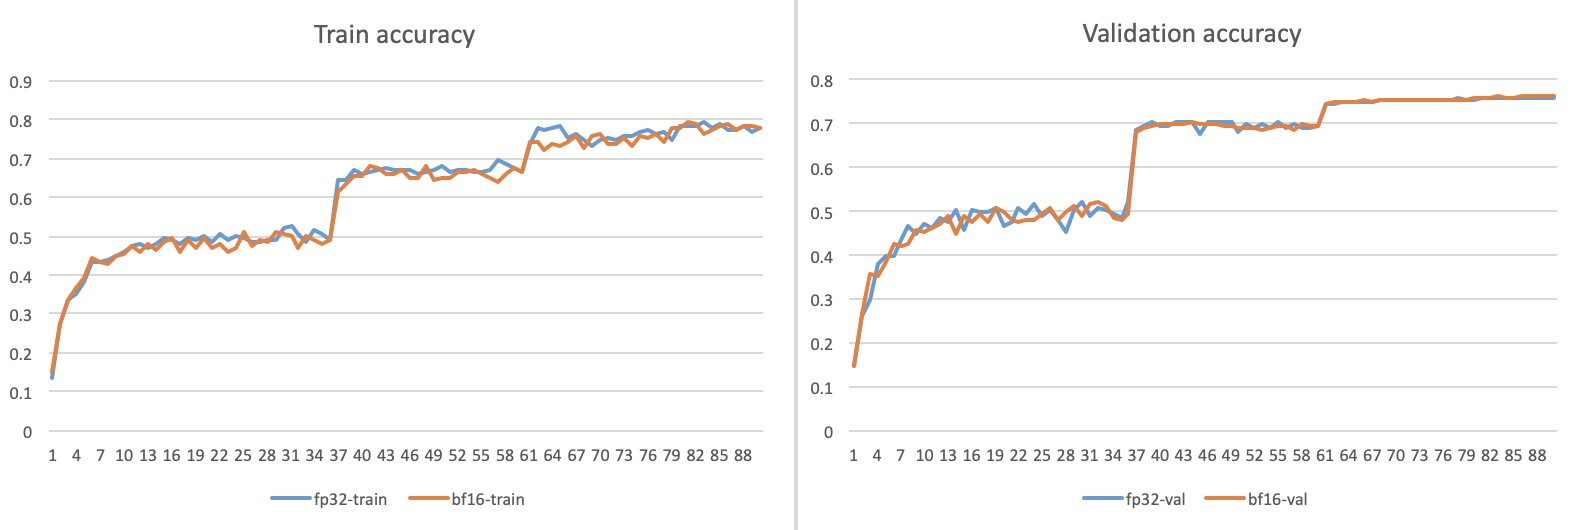
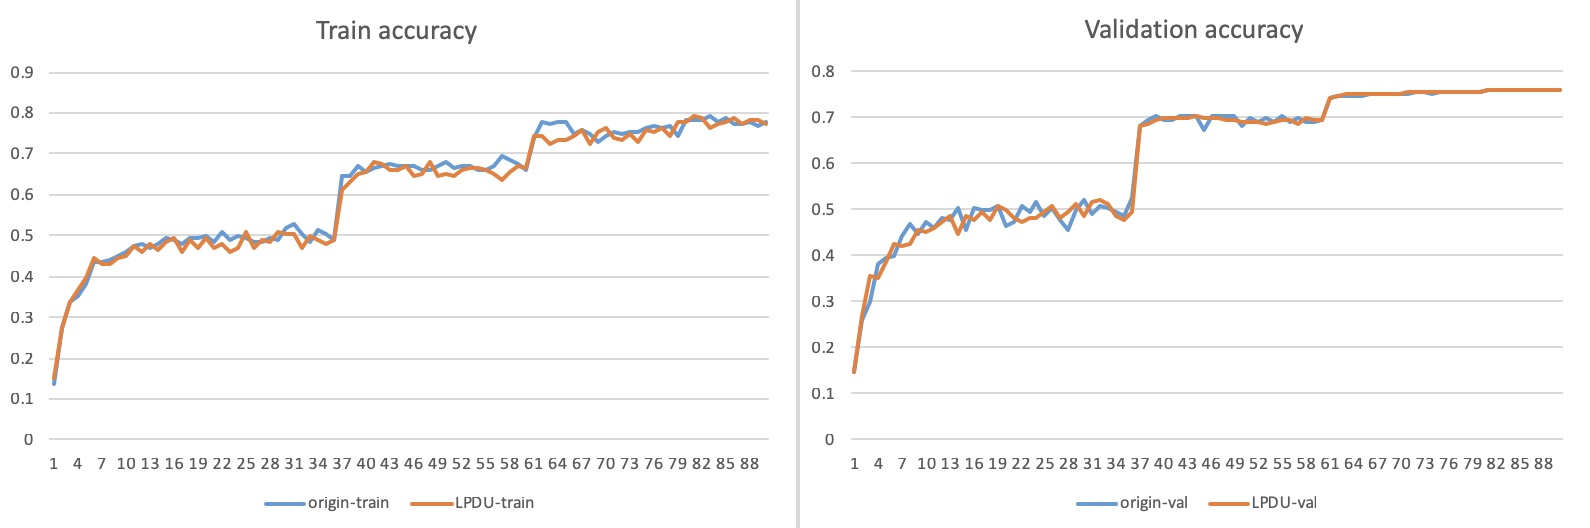
submit for paper review

diff --git a/data/innovation2.tex b/data/innovation2.tex
@@ -1,4 +1,4 @@
-\chapter{低精度梯度压缩方法}
+\chapter{极限精度梯度压缩方法}
 考虑到梯度数据普遍较小，绝大部分数据绝对值在0～1之间这样特点，如表~\ref{tab:resnet50_1iter_grad_fabs}所示。在resnet50网络中，每次迭代需要更新155个tensor的梯度，表中展示了在第一次迭代中各个tensor最大绝对值所处的范围。可知仅考虑每个tensor中最大绝对值情况下，53.55\%的tensor中最大绝对值在0～1之间；41.29\%的tensor中最大绝对值在1～10之间；仅有5.16\%的tensor中最大绝对值在10～50之间。
 \begin{table}[htb]
 \centering
@@ -35,13 +35,13 @@
 \end{minipage}
 \end{table}
 
-本章希望在不影响神经网络训练精度的情况下，尽可能减少梯度数据所需的比特位数，为进一步减少分布式通信开销，提高分布式系统可扩展性和训练效率提供数据压缩方法。本章将主要介绍梯度压缩的思路与实现方法，以及对应压缩方式在图像分类和物体检测网络中的训练精度。通过其与原始的训练精度对比，说明对应压缩算法的有效性和适用范围。
+本章希望在不影响神经网络训练精度的情况下，尽可能减少梯度数据所需的比特位数，为进一步减少分布式通信开销，提高分布式系统可扩展性和训练效率提供数据压缩方法。本章将主要介绍梯度压缩的思路与实现方法，以及对应压缩方式在图像分类和物体检测网络中的训练精度。通过其与原始的训练精度对比，说明对应压缩算法的有效性和适用范围。本章共提出两种极限精度梯度压缩EPGC方法：9比特梯度压缩方法和8比特梯度压缩方法，这两种算法均能保证分类网络训练精度达到原始浮点数训练相同精度。后面将详细分析相关实验结果。
 \section{引言}
 根据第二章内容可知，分布式训练过程中同步开销的大小对系统的可扩展性和训练效率有至关重要的影响。在不影响训练精度的情况下，将梯度尽可能地压缩则可减少同步开销，提高分布式系统的可扩展性和训练效率。本章将介绍探索梯度压缩方法的思路与具体实现方法，以及各个压缩方式下分类网和物体检测网络的最终收敛精度。
 
-由第三章BF16分布式更新算法实现可知，基于horovod要实现新的数据压缩方法，则需在MPI中新增一个数据类型来解析该压缩数据，并实现一个该数据类型的求和函数供MPI调用。为快速验证本文提出的梯度压缩方法对神经网络训练精度的影响，本章提出的梯度压缩方法均通过对FP32浮点数或半精度浮点数对应比特位清零的方式来模拟对应的压缩方法。该模拟方法可避免对MPI的改动，使得本节提出的压缩方法能够快速得到验证。下面将对本节探索出的两种压缩方式进行详细介绍。
-\section{9比特梯度压缩方法}
-根据上一章BF16更新算法可知，BF16数据格式相对于原始FP32数据而言，去除了浮点数尾数中的后16比特位，仅保留7位有效比特位。本压缩算法根据这一思路，在BF16数据基础上，进一步减少尾数有效位，在保证训练精度情况下，尽可能减少尾数比特位，以减少分布式同步中的通信量。
+由第三章LPDU算法实现可知，基于horovod要实现新的数据压缩方法，则需在MPI中新增一个数据类型来解析该压缩数据，并实现一个该数据类型的求和函数供MPI调用。为快速验证本文提出的梯度压缩方法对神经网络训练精度的影响，本章提出的梯度压缩方法均通过对FP32浮点数或半精度浮点数对应比特位清零的方式来模拟对应的压缩方法。该模拟方法可避免对MPI的改动，使得本节提出的压缩方法能够快速得到验证。下面将对本节探索出的两种EPGC方法：9比特梯度压缩方法和8比特梯度压缩方法进行详细介绍。
+\section{9比特梯度压缩算法}
+根据上一章LPDU算法可知，BF16数据格式相对于原始FP32数据而言，去除了浮点数尾数中的后16比特位，仅保留7位有效比特位。本压缩算法根据这一思路，在BF16数据基础上，进一步减少尾数有效位，在保证训练精度情况下，尽可能减少尾数比特位，以减少分布式同步中的通信量。
 
 \subsection{9比特压缩方法实现}
 \begin{figure}[htp]
@@ -52,7 +52,7 @@
 \end{figure}
 本节通过对原始FP32浮点数尾数位置零的方法模拟这种压缩方法。如在FP32浮点数基础上仅保留两位有效尾数位，形成11比特的数据格式，可通过将FP32浮点数的低21位清零达到相同效果，如图~\ref{fig:simulate_11bits}所示。可知低21比特位清零后的浮点数等效于11比特位数据格式所表示数据。
 
-使用这种模拟方法，本文逐渐减少尾数比特位，并在对应比特位中使用图像分类和物体检测领域经典的网络，来验证该压缩方法的有效性和适用范围。最终发现在去除所有尾数情况下，近使用9比特梯度压缩算法即可保证分类网的训练精度，故本节提出了适用于图像分类网络的9比特梯度压缩方法；但该梯度压缩方法在物体检测网络中则对网络训练精度有较大影响。
+使用这种模拟方法，本文逐渐减少尾数比特位，并在对应比特位中使用图像分类和物体检测领域经典的网络，来验证该压缩方法的有效性和适用范围。最终发现在去除所有尾数情况下，仅使用9比特梯度压缩算法即可保证分类网的训练精度，故本节提出了适用于图像分类网络的9比特梯度压缩方法；但该梯度压缩方法在物体检测网络中则对网络训练精度有较大影响。
 
 \subsection{9比特压缩方法实验分析}
 通过这种模拟方法，本文分别得出使用11比特，10比特，9比特情况下，压缩算法对分类网和物体检测网的影响。分类网以resnet50为例，物体检测网络以SSD为例。经实验验证：在同步梯度数据时仅保留两比特位的尾数情况下，分类网也可收敛到原始浮点数梯度相同精度。在11比特有效位基础上，继续减少尾数位，保留1位尾数、去除所有尾数位情况下，在分类网上均能达到理想收敛精度。在去除所有尾数位仅使用9比特数据表示梯度情况下，resnet50的收敛曲线如图~\ref{fig:simulate_9bits_acc}所示。
@@ -72,7 +72,7 @@
 \label{fig:simulate_9bits_ssd_acc}
 \end{figure}
 
-保留2位尾数，1位尾数，不保留尾数情况下，resnet50与SSD在验证集准确率如表~\ref{tab:simulate_11_10_9bits_acc}所示。所有结果均在4节点8实例配置下训练得到。由表~\ref{tab:simulate_11_10_9bits_acc}可知，在原始浮点梯度基础上，仅保留2位尾数，1位尾数，不保留尾数情况下，resnet50网络精度与原始浮点数梯度精度相差<0.3\%。说明在误差允许范围内，在分类网中仅使用9比特数据（1个符号位，8个指数位）表示梯度即可满足训练精度要求。通过去除浮点数中所有尾数位的方法可在不影响神经网络训练精度前提下减少分布式同步开销提升分布式训练性能。而物体检测网络对梯度精度要求较高，本节提出的压缩方法则不适用于物体检测网络的训练。
+保留2位尾数，1位尾数，不保留尾数情况下，resnet50与SSD在验证集准确率如表~\ref{tab:simulate_11_10_9bits_acc}所示。所有结果均在4节点8实例配置下训练得到。由表~\ref{tab:simulate_11_10_9bits_acc}可知，在原始浮点梯度基础上，仅保留2位尾数，1位尾数，不保留尾数情况下，resnet50网络精度与原始浮点数梯度精度相差<0.3\%。说明在误差允许范围内，在分类网中仅使用9比特数据（1个符号位，8个指数位）表示梯度即可满足训练精度要求。通过去除浮点数中所有尾数位的方法可在不影响神经网络训练精度前提下减少分布式同步开销，提升分布式系统的可扩展性和训练效率。而物体检测网络对梯度精度要求较高，本节提出的压缩方法则不适用于物体检测网络的训练。
 
 \begin{table}[htb]
 \centering
@@ -107,7 +107,7 @@ FP32 & 76.12 & 64.00 \\
 \end{figure}
 
 \subsection{8比特压缩方法实验分析}
-在4节点8实例情况下，使用该方法将梯度数据压缩成单字节数据，resnet50的收敛曲线如图~\ref{fig:simulate_8bits_acc}所示。可知本节提出的8比特梯度压缩方法同样能达到原始训练精度:76.1\%，说明本节提出的压缩方法可在不影响分类网络精度情况下，减小分布式训练神经网络中的通信量，从而提升分布式训练效率。
+在4节点8实例情况下，使用该方法将梯度数据压缩成单字节数据，resnet50的收敛曲线如图~\ref{fig:simulate_8bits_acc}所示。可知本节提出的8比特梯度压缩方法同样能达到原始训练精度:76.1\%，说明本节提出的压缩方法可在不影响分类网络精度情况下，减小分布式训练神经网络中的通信量，从而提升分布式系统的可扩展性和训练效率。
 \begin{figure}[htp]
 \centering
 \includegraphics[width=13cm]{simulate_8bits_acc2}
@@ -115,7 +115,7 @@ FP32 & 76.12 & 64.00 \\
 \label{fig:simulate_8bits_acc}
 \end{figure}
 
-物体检测网络SSD在该压缩方法下mAP曲线如图~\ref{fig:simulate_8bits_ssd_acc}所示。可知SSD网络在本节8比特梯度压缩算法下最终mAP为59.78\%,与原始浮点数训练的结果：64.00\%差距较大。造成SSD训练精度的损失来自于尾数位精度的降低，其原因与9比特梯度压缩算法造成SSD训练精度下降的原因相同。说明本节提出的8比特梯度压缩方法在图像分类网络训练中不会对训练精度造成影响，可将该压缩算法用于分布式训练分类网，以提升训练效率。但因为物体检测网络对梯度精度要求较高，本节提出的8比特梯度压缩算法不能保证物体检测网络的训练精度，不适用于物体检测网络。
+物体检测网络SSD在该压缩方法下mAP曲线如图~\ref{fig:simulate_8bits_ssd_acc}所示。可知SSD网络在本节8比特梯度压缩方法下最终mAP为59.78\%,与原始浮点数训练的结果：64.00\%差距较大。造成SSD训练精度的损失来自于尾数位精度的降低，其原因与9比特梯度压缩方法造成SSD训练精度下降的原因相同。说明本节提出的8比特梯度压缩方法在图像分类网络训练中不会对训练精度造成影响，可将该压缩算法用于分布式训练分类网，以提升训练效率。但因为物体检测网络对梯度精度要求较高，本节提出的8比特梯度压缩算法不能保证物体检测网络的训练精度，不适用于物体检测网络。
 \begin{figure}[htp]
 \centering
 \includegraphics[width=12cm]{simulate_8bits_ssd_acc}
@@ -123,11 +123,11 @@ FP32 & 76.12 & 64.00 \\
 \label{fig:simulate_8bits_ssd_acc}
 \end{figure}
 
-同时，根据上一节提出的9比特压缩方法可知，可进一步在半精度浮点数上减少尾数位或去除所有尾数位，极限情况下仅使用6比特数据表示梯度。下一步将对该种可能的6比特梯度压缩方法在分类网络中进行尝试验证，通过比较该压缩方法下分类网的最终收敛精度与原始收敛精度的差异，说明该压缩算法对分类网精度的影响，从而确定该压缩算法应用于分类网络的可行性。
+同时，根据上一节提出的9比特压缩方法可知，可进一步在半精度浮点数上减少尾数位或去除所有尾数位，极限情况下仅使用6比特数据表示梯度。下一步将对这种可能的6比特梯度压缩方法在分类网络中进行尝试验证，通过比较该压缩方法下分类网的最终收敛精度与原始收敛精度的差异，说明该压缩算法对分类网精度的影响，从而确定该压缩算法应用于分类网络的可行性。
 
 另一方面，对于本节8比特梯度压缩方法对物体检测网络造成精度下降的问题，下一步将在8比特压缩方法基础上，逐步增加尾数位，分别训练物体检测网络，直到物体检测网络训练精度达到原始浮点数训练精度为止。
 \section{本章小结}
-本章基于减少分布式训练神经网络通信开销，提高分布式系统的可扩展性和训练效率的目的，希望通过减少梯度数据比特位的方法来减少通信数据量，提出9比特梯度压缩方法和8比特梯度压缩方法。经验证本章提出的两种压缩方法在resnet50网络中均能达到训练精度要求，说明这两种压缩方法应用于分类网络的可行性；也可看出物体检测网络对梯度精度要求较高，本章提出的两种压缩算法不适用于物体检测网络。下一步主要有两方面工作：1.基于8比特梯度压缩方法，继续减少尾数位，极限情况下仅使用6比特数据传输梯度，将其应用于分类网的训练，通过比较其训练精度与原始训练精度的差异，验证这种压缩算法的可行性；2.针对8比特梯度压缩算法在物体检测网络上造成精度损失的问题，基于8比特梯度压缩方法，逐渐增加尾数位，直至其在物体检测网络中的训练精度达到原始浮点数训练精度为止。
+本章基于减少分布式训练神经网络通信开销，提高分布式系统的可扩展性和训练效率的目的，希望通过减少梯度数据比特位的方法来减少通信数据量，提出两种极限梯度压缩方法：9比特梯度压缩方法和8比特梯度压缩方法。经验证本章提出的两种压缩方法在resnet50网络中均能达到训练精度要求，说明这两种压缩方法应用于分类网络的可行性；也可看出物体检测网络对梯度精度要求较高，本章提出的两种压缩算法不适用于物体检测网络。下一步主要有两方面工作：1.基于8比特梯度压缩方法，继续减少尾数位，极限情况下仅使用6比特数据传输梯度，将其应用于分类网的训练，通过比较其训练精度与原始训练精度的差异，验证这种压缩算法的可行性；2.针对8比特梯度压缩方法在物体检测网络上造成精度损失的问题，基于8比特梯度压缩方法，逐渐增加尾数位，直至其在物体检测网络中的训练精度达到原始浮点数训练精度为止。
 
 
 

diff --git a/data/abstract.tex b/data/abstract.tex
@@ -1,20 +1,20 @@
 \begin{cabstract}
 近年来以神经网络为基础的人工智能技术在学术界和工业界得到了广泛应用和发展。随着神经网络模型和训练所需的数据量不断增加，使得单机训练神经网络越来越困难。分布式训练神经网络不仅可以极大减少训练时间，也可完成某些单机情况下无法训练的神经网络。在可预见的未来，分布式训练神经网络将成为必然选择。如何提高分布式训练神经网络的效率则显得尤为重要。
 
-本文针对这一问题，在提出BF16分布式更新算法，将原始浮点数梯度转换为BF16格式进行传输，减少同步时间开销，进而提升分布式训练效率。本文通过分析BF16更新算法各部分的时间开销和神经网络的参数规模得出BF16更新算法在特定神经网络训练中的理论性能提升，并通过实验加以验证。通过对比BF16更新算法与原始算法在图像分类，目标检测任务的相关实验证明：BF16更新算法在图像分类与目标检测任务中均能达到与原始更新算法相同的理想精度。同时对分布式训练性能有所提升。在8节点情况下，resnet50的效率由原始的84.05\%提升到了87.50\%，VGG网络的训练效率相对于原始的79.42\%提升至了86.55\%,SSD网络相对于原始效率有4.83\%的提升。
+本文针对这一问题，在提出低精度分布式更新LPDU算法，将原始浮点数梯度转换为BF16格式进行传输，减少同步时间开销，进而提升分布式训练效率，通过混合精度更新算法，保证训练精度。本文通过分析LPDU算法各部分的时间开销和神经网络的参数规模得出LPDU算法在特定神经网络训练中的理论性能提升，并通过实验加以验证。通过对比LPDU算法与原始算法在图像分类，目标检测任务的相关实验证明：LPDU算法在图像分类与目标检测任务中均能达到与原始更新算法相同的理想精度。同时对分布式训练性能有所提升。在8节点情况下，resnet50的效率由原始的84.05\%提升到了87.50\%，VGG网络的训练效率相对于原始的79.42\%提升至了86.55\%,SSD网络相对于原始效率有4.83\%的提升。
 
-基于BF16分布式更新算法减少梯度尾数位的思路，本文提出两种梯度压缩算法：9比特梯度压缩算法和8比特梯度压缩算法。9比特梯度压缩算法是在浮点数基础上去除所有尾数位，仅使用1个符号位和8个指数位表示梯度；8比特梯度压缩算法是在半精度浮点数基础上去除8位尾数位，使用1个符号位，5个指数位和2个尾数位表示梯度。为快速验证本文提出的梯度压缩算法的可行性，本文通过在原始浮点数或半精度浮点数基础上对特定尾数位置零的方式模拟这两种压缩方法。通过实验证明这两种梯度压缩算法均能保证神经网络在图像分类任务中的训练精度，说明通过这两种梯度压缩算法提升分布式训练效率上可行的。
+基于LPDU算法减少梯度尾数位的思路，本文提出两种极限精度梯度压缩EPGC方法：9比特梯度压缩方法和8比特梯度压缩方法。9比特梯度压缩方法是在浮点数基础上去除所有尾数位，仅使用1个符号位和8个指数位表示梯度；8比特梯度压缩方法是在半精度浮点数基础上去除8位尾数位，使用1个符号位，5个指数位和2个尾数位表示梯度。为快速验证本文提出的梯度压缩方法的可行性，本文通过在原始浮点数或半精度浮点数基础上对特定尾数位置零的方式模拟这两种压缩方法。通过实验证明这两种梯度压缩算法均能保证神经网络在图像分类任务中的训练精度，说明通过这两种梯度压缩算法提升分布式训练效率上可行的。
 
 \end{cabstract}
-\ckeywords{神经网络; 分布式训练; 更新算法; 梯度压缩}
+\ckeywords{神经网络; 分布式训练; 低精度；更新算法; 梯度压缩}
 
 \begin{eabstract}
 In recent years, artificial intelligence technology based on neural networks has been widely used and developed in academia and industry. As neural network models and the amount of data required for training continue to increase, it becomes increasingly difficult to train neural networks in a single machine. The distributed training neural network not only can greatly shorten the training time, but also can train some neural networks that cannot be trained in single machine. In the foreseeable future, distributed training neural networks will become an inevitable choice. How to improve the efficiency of distributed training neural networks is particularly important.
 
-This paper proposes a BF16 distributed update algorithm, which converts the original floating-point gradient into BF16 format for transmission, which reduces the synchronization time overhead and improves the distributed training efficiency. In this paper, by analyzing the time overhead in each part of BF16 distributed update algorithm and the parameter size of neural network, the theoretical performance improvement of BF16 distributed update algorithm in specific neural network training is obtained and verified by experiments. By comparing the training accuracy curves between the BF16 distributed update algorithm and the original algorithm, it proves that the BF16 distributed update algorithm can achieve the same ideal precision as the original update algorithm in both image classification and object detection tasks. And the performance of distributed training has improved. In the case of 8 nodes training, the efficiency of resnet50 has increased from the original 84.05 \% to 87.50\%. The training efficiency of the VGG has increased to 86.55\% compared with the original 79.42\%, and the SSD network has increased by 4.83\% compared with the original efficiency.
+This paper proposes a low-precision distributed update (LPDU) algorithm, which converts the original floating-point gradient into BF16 format for transmission, which reduces the synchronization time overhead and improves the distributed training efficiency. The Mixed precision update  (MPU) algorithm can ensure the training accuracy. In this paper, by analyzing the time overhead in each part of LPDU algorithm and the parameter size of neural network, the theoretical performance improvement of BF16 distributed update algorithm in specific neural network training is obtained and verified by experiments. By comparing the training accuracy curves between the LPDU algorithm and the original algorithm, it proves that the LPDU algorithm can achieve the same ideal precision as the original update algorithm in both image classification and object detection tasks. And the performance of distributed training has improved. In the case of 8 nodes training, the efficiency of resnet50 has increased from the original 84.05 \% to 87.50\%. The training efficiency of the VGG has increased to 86.55\% compared with the original 79.42\%, and the SSD network has increased by 4.83\% compared with the original efficiency.
 
-Based on the idea of BF16 distributed update algorithm to reduce the mantissa of gradient, two gradient compression algorithms are proposed: 9-bits gradient compression algorithm and 8-bits gradient compression algorithm. The 9-bits gradient compression algorithm removes all mantissa bits in the float data format, using only 1 sign bit and 8 exponent bits to represent the gradient; the 8-bits gradient compression algorithm removes 8 bits in the mantissa of half-precision data. using one sign bit, five exponent bits and two mantissa bits represent the gradient. In order to quickly verify the feasibility of the two proposed gradient compression algorithms proposed, this paper simulates the two compression algorithms by zeroing the specific mantissa position based on the original floating point number or half-precision floating point number. Experiments show that both gradient compression algorithms can guarantee the training accuracy of neural networks in image classification tasks. It is feasible to improve the efficiency of distributed training through these two gradient compression algorithms.
+Based on the idea of LPDU algorithm to reduce the mantissa of gradient, two extreme precision gradient compression (EPGC) algorithms are proposed: 9-bits gradient compression algorithm and 8-bits gradient compression algorithm. The 9-bits gradient compression algorithm removes all mantissa bits in the float data format, using only 1 sign bit and 8 exponent bits to represent the gradient; the 8-bits gradient compression algorithm removes 8 bits in the mantissa of half-precision data. using one sign bit, five exponent bits and two mantissa bits represent the gradient. In order to quickly verify the feasibility of the two proposed gradient compression algorithms proposed, this paper simulates the two compression algorithms by zeroing the specific mantissa position based on the original floating point number or half-precision floating point number. Experiments show that both gradient compression algorithms can guarantee the training accuracy of neural networks in image classification tasks. It is feasible to improve the efficiency of distributed training through these two gradient compression algorithms.
 
 \end{eabstract}
-\ekeywords{neural network; distributed training; update algorithm; gradient compression}
+\ekeywords{neural network; distributed training; low precision; update algorithm; gradient compression}
 

diff --git a/data/summary.tex b/data/summary.tex
@@ -1,12 +1,12 @@
 \chapter{总结与展望}
 \section{工作总结}
-优化分布式训练神经网络的性能对神经网络的发展有至关重要的作用，是所有神经网络算法的基础。随着神经网络的发展，数据量和神经网络规模呈现爆发性增长趋势，在可预见的将来单机训练已经很难满足要求，分布式训练神经网络将是必然选择，优化分布式训练神经网络的性能显得尤为重要。针对这一问题，本文提出BF16分布式更新算法，通过减少原始浮点梯度的尾数位，以减少同步梯度过程中的数据量，进而减少同步开销，提升分布式训练效率。在此基础上，本文提出9比特梯度压缩方法和8比特梯度压缩方法，以进一步减少同步时间开销。本文的主要研究工作和研究成果如下：
+优化分布式训练神经网络的性能对神经网络的发展有至关重要的作用，是所有神经网络算法的基础。随着神经网络的发展，数据量和神经网络规模呈现爆发性增长趋势，在可预见的将来单机训练已经很难满足要求，分布式训练神经网络将是必然选择，优化分布式训练神经网络的性能显得尤为重要。针对这一问题，本文提出低精度分布式更新LPDU算法，通过减少原始浮点梯度的尾数位，以减少同步梯度过程中的数据量，进而减少同步开销，提升分布式训练效率。在此基础上，本文提出两种极限精度梯度压缩方法：9比特梯度压缩方法和8比特梯度压缩方法，以进一步减少同步时间开销，提高分布式系统可扩展性。本文的主要研究工作和研究成果如下：
 
-1. BF16分布式更新算法。该算法旨在保证神经网络训练精度的情况下，提升分布式训练神经网络的性能。通过使用BF16格式数据传输梯度，减少了梯度数据的尾数位，达到减少同步数据量，减少同步时间开销的目的。本算法受启发于google公司使用BF16数据格式训练神经网络的相关研究。其研究表明在神经网络训练过程中，完全使用BF16数据格式训练神经网络能达到浮点数训练相同的精度，并根据这一研究成果开发出来首款支持BF16计算硬件：TPU。故本文提出将原始浮点数梯度转换为BF16数据格式，以减少分布式同步过程中的通信量。
+1. 低精度分布式更新算法。该算法旨在保证神经网络训练精度的情况下，提升分布式训练神经网络的性能。通过使用BF16格式数据传输梯度，减少了梯度数据的尾数位，达到减少同步数据量，减少同步时间开销的目的。本算法受启发于google公司使用BF16数据格式训练神经网络的相关研究。其研究表明在神经网络训练过程中，完全使用BF16数据格式训练神经网络能达到浮点数训练相同的精度，并根据这一研究成果开发出来首款支持BF16计算硬件：TPU。故本文提出将原始浮点数梯度转换为BF16数据格式，以减少分布式同步过程中的通信量。
 
-2. 9比特梯度压缩方法与8比特梯度压缩方法。在BF16更新算法基础上，为提升分布式系统的可扩展性和训练效率，我们进一步压缩梯度数据的比特位，本文提出基于原始浮点数去除所有尾数位的9比特压缩方法，仅保留1个符号位与8个指数位。为快速验证本文所提出的压缩方法对神经网络训练精度的影响，本文通过对浮点数梯度特定尾数位清零的方法模拟相应的压缩方法。根据近年来业界将半精度浮点数应用于神经网络训练中的相关工作，本文还提出基于半精度浮点数的8比特梯度压缩方法，保留1个符号位，5个指数位和2个尾数位。
+2. 9比特梯度压缩方法与8比特梯度压缩方法。在LPDU算法基础上，为提升分布式系统的可扩展性和训练效率，我们进一步压缩梯度数据的比特位，本文提出基于原始浮点数去除所有尾数位的9比特压缩方法，仅保留1个符号位与8个指数位。为快速验证本文所提出的压缩方法对神经网络训练精度的影响，本文通过对浮点数梯度特定尾数位清零的方法模拟相应的压缩方法。根据近年来业界将半精度浮点数应用于神经网络训练中的相关工作，本文还提出基于半精度浮点数的8比特梯度压缩方法，保留1个符号位，5个指数位和2个尾数位。
 
-在BF16更新算法相关实验中，本文首先通过分析BF16更新算法中涉及到的各部分操作的时间开销，以及特定神经网络的参数量大小与分布，从理论上分析BF16更新算法在特定神经网络训练中对分布式训练效率的性能提升。真实训练过程中测得的性能提升与理论分析相一致，说明算法实现与理论分析的正确性。而后通过比较BF16更新算法与原始更新算法在分类网，物体检测网的收敛效果与训练速度,说明BF16更新算法在不影响神经网络精度情况下，对分布式训练神经网络性能有一定提升。
+在LPDU算法相关实验中，本文首先通过分析LPDU算法中涉及到的各部分操作的时间开销，以及特定神经网络的参数量大小与分布，从理论上分析LPDU算法在特定神经网络训练中对分布式训练效率的性能提升。真实训练过程中测得的性能提升与理论分析相一致，说明算法实现与理论分析的正确性。而后通过比较LPDU算法与原始更新算法在分类网，物体检测网的收敛效果与训练速度,说明LPDU算法在不影响神经网络精度情况下，对分布式训练神经网络性能有一定提升。
 
 在9比特梯度压缩方法与8比特梯度压缩方法相关实验中，本文通过对原始浮点数或半精度浮点数特定尾数位清零的方法模拟对应压缩方法。通过这两种压缩方法下分别在分类网和物体检测网络中的收敛精度与其原始收敛精度的对比，说明本文提出的两种压缩方法在分类网中的有效性，以及不适用于物体检测网络的原因，并提出了下一步需要做的工作。
 \section{工作展望}
